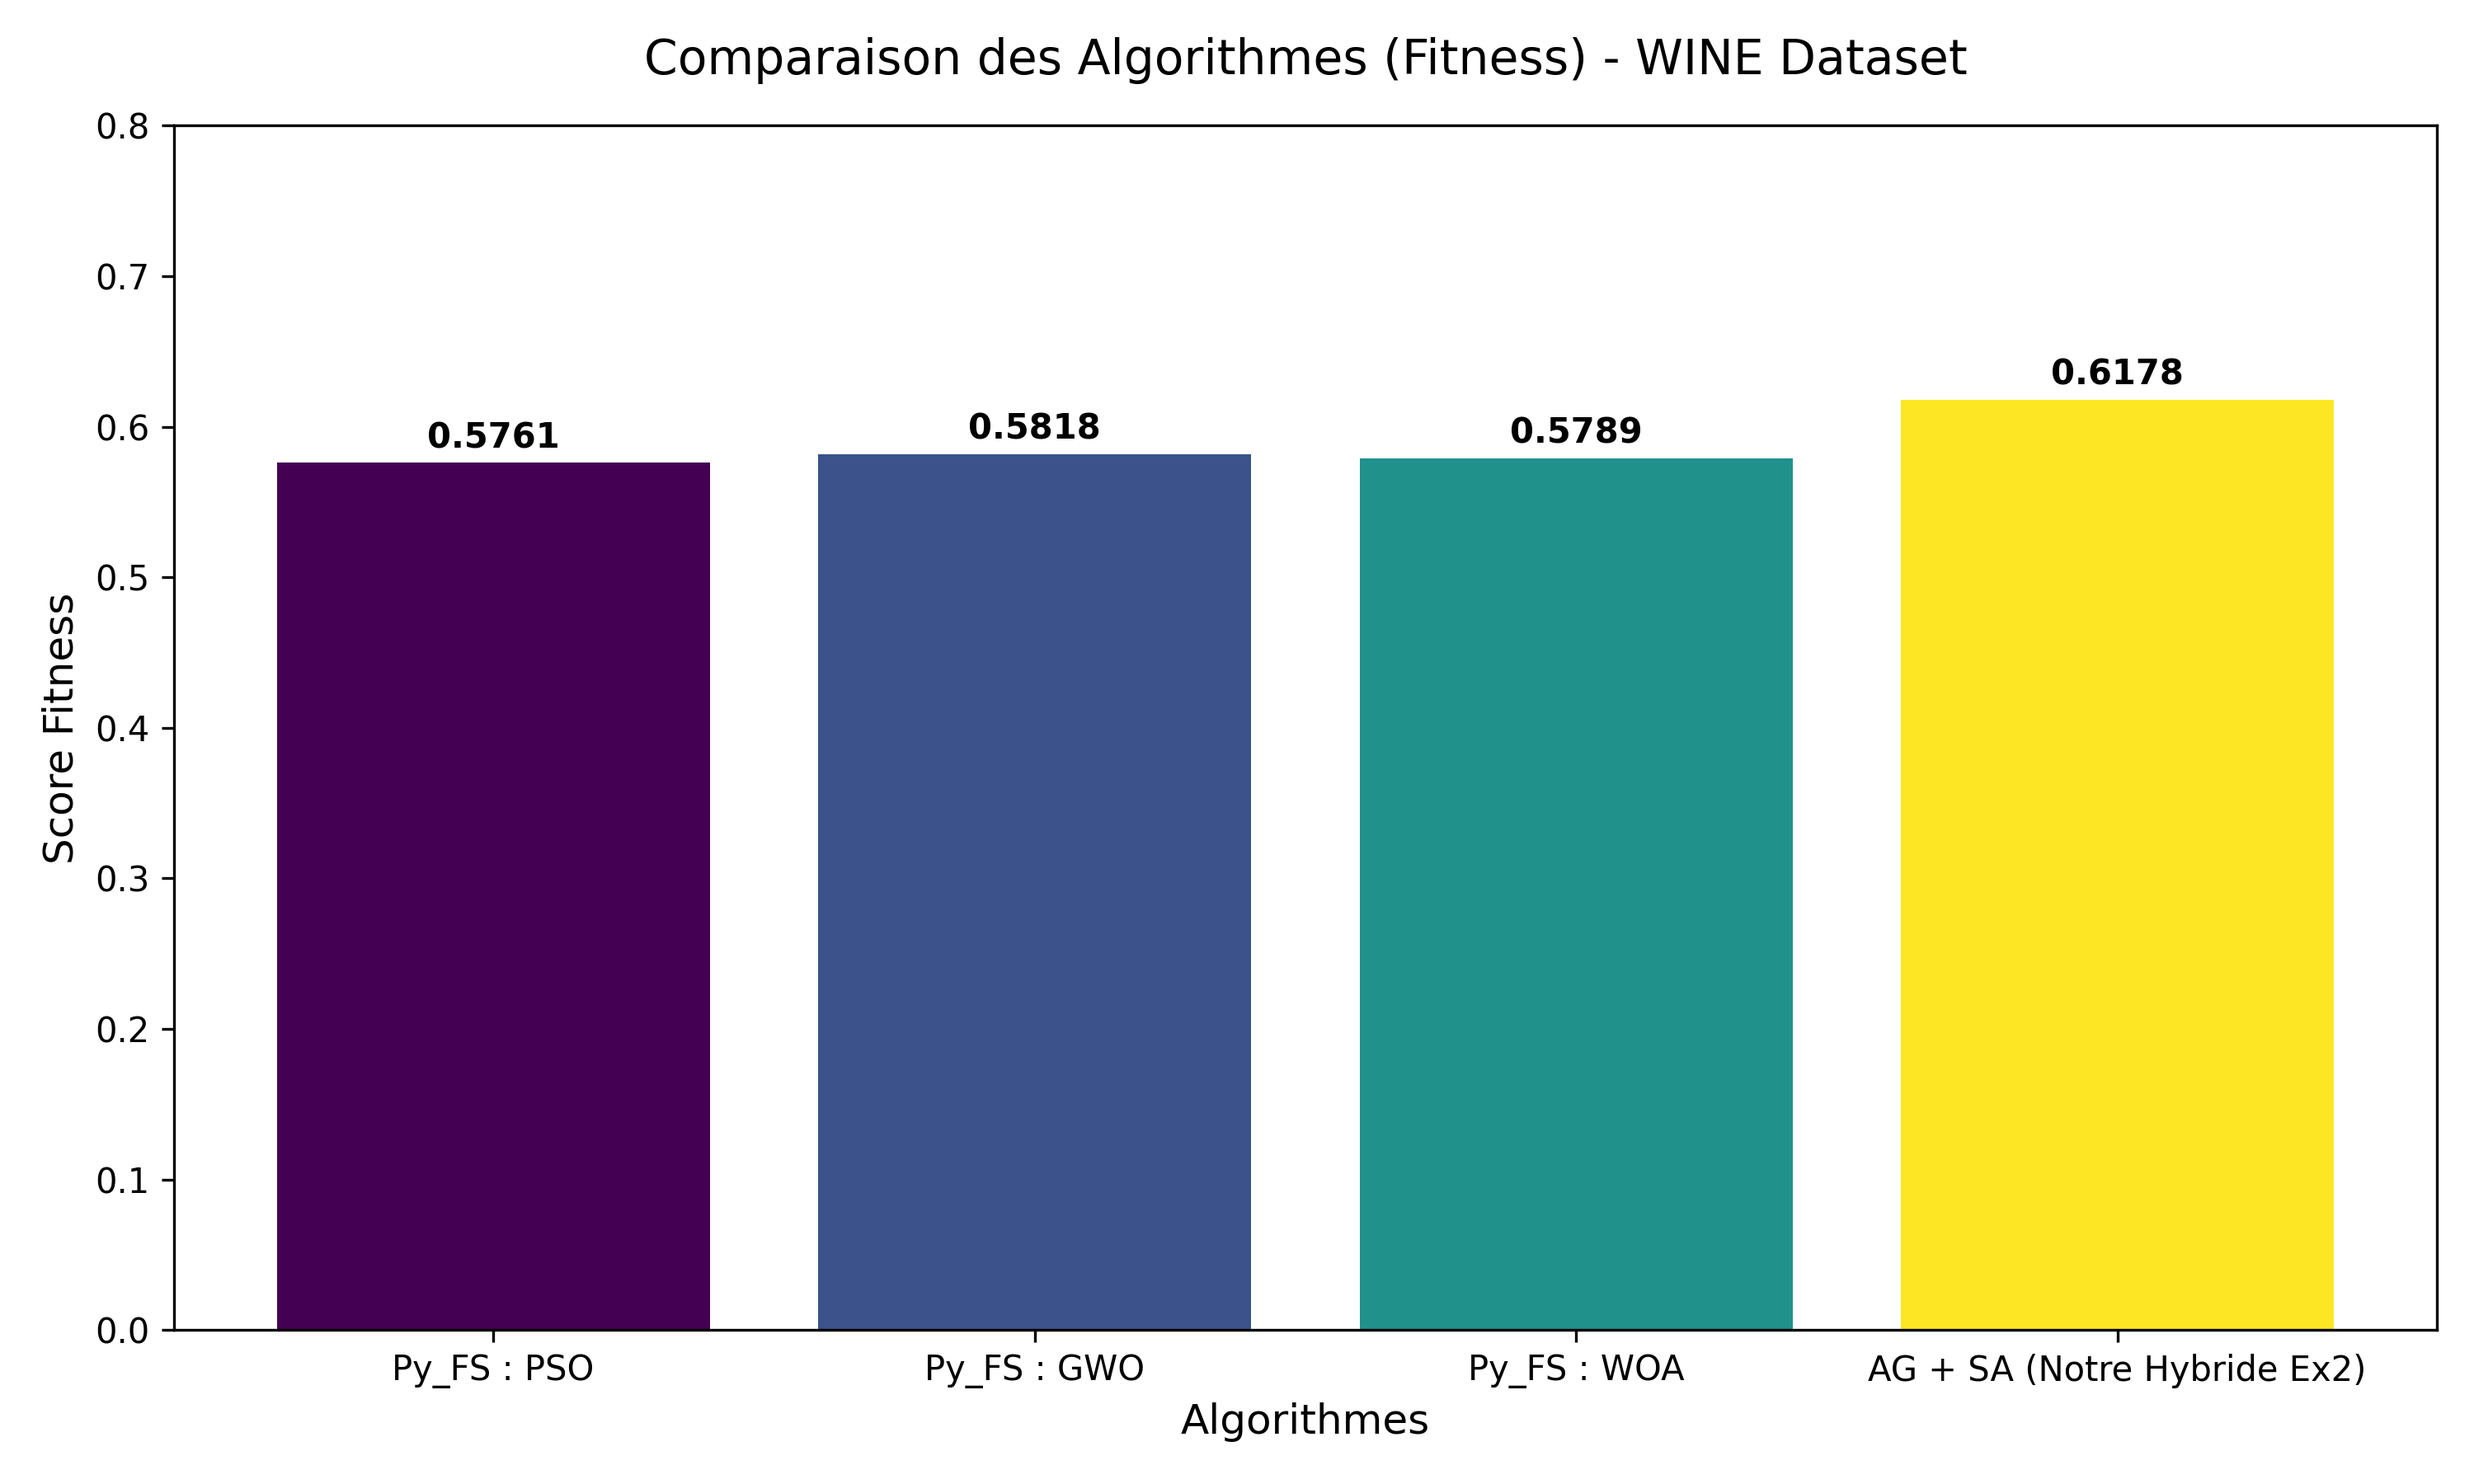
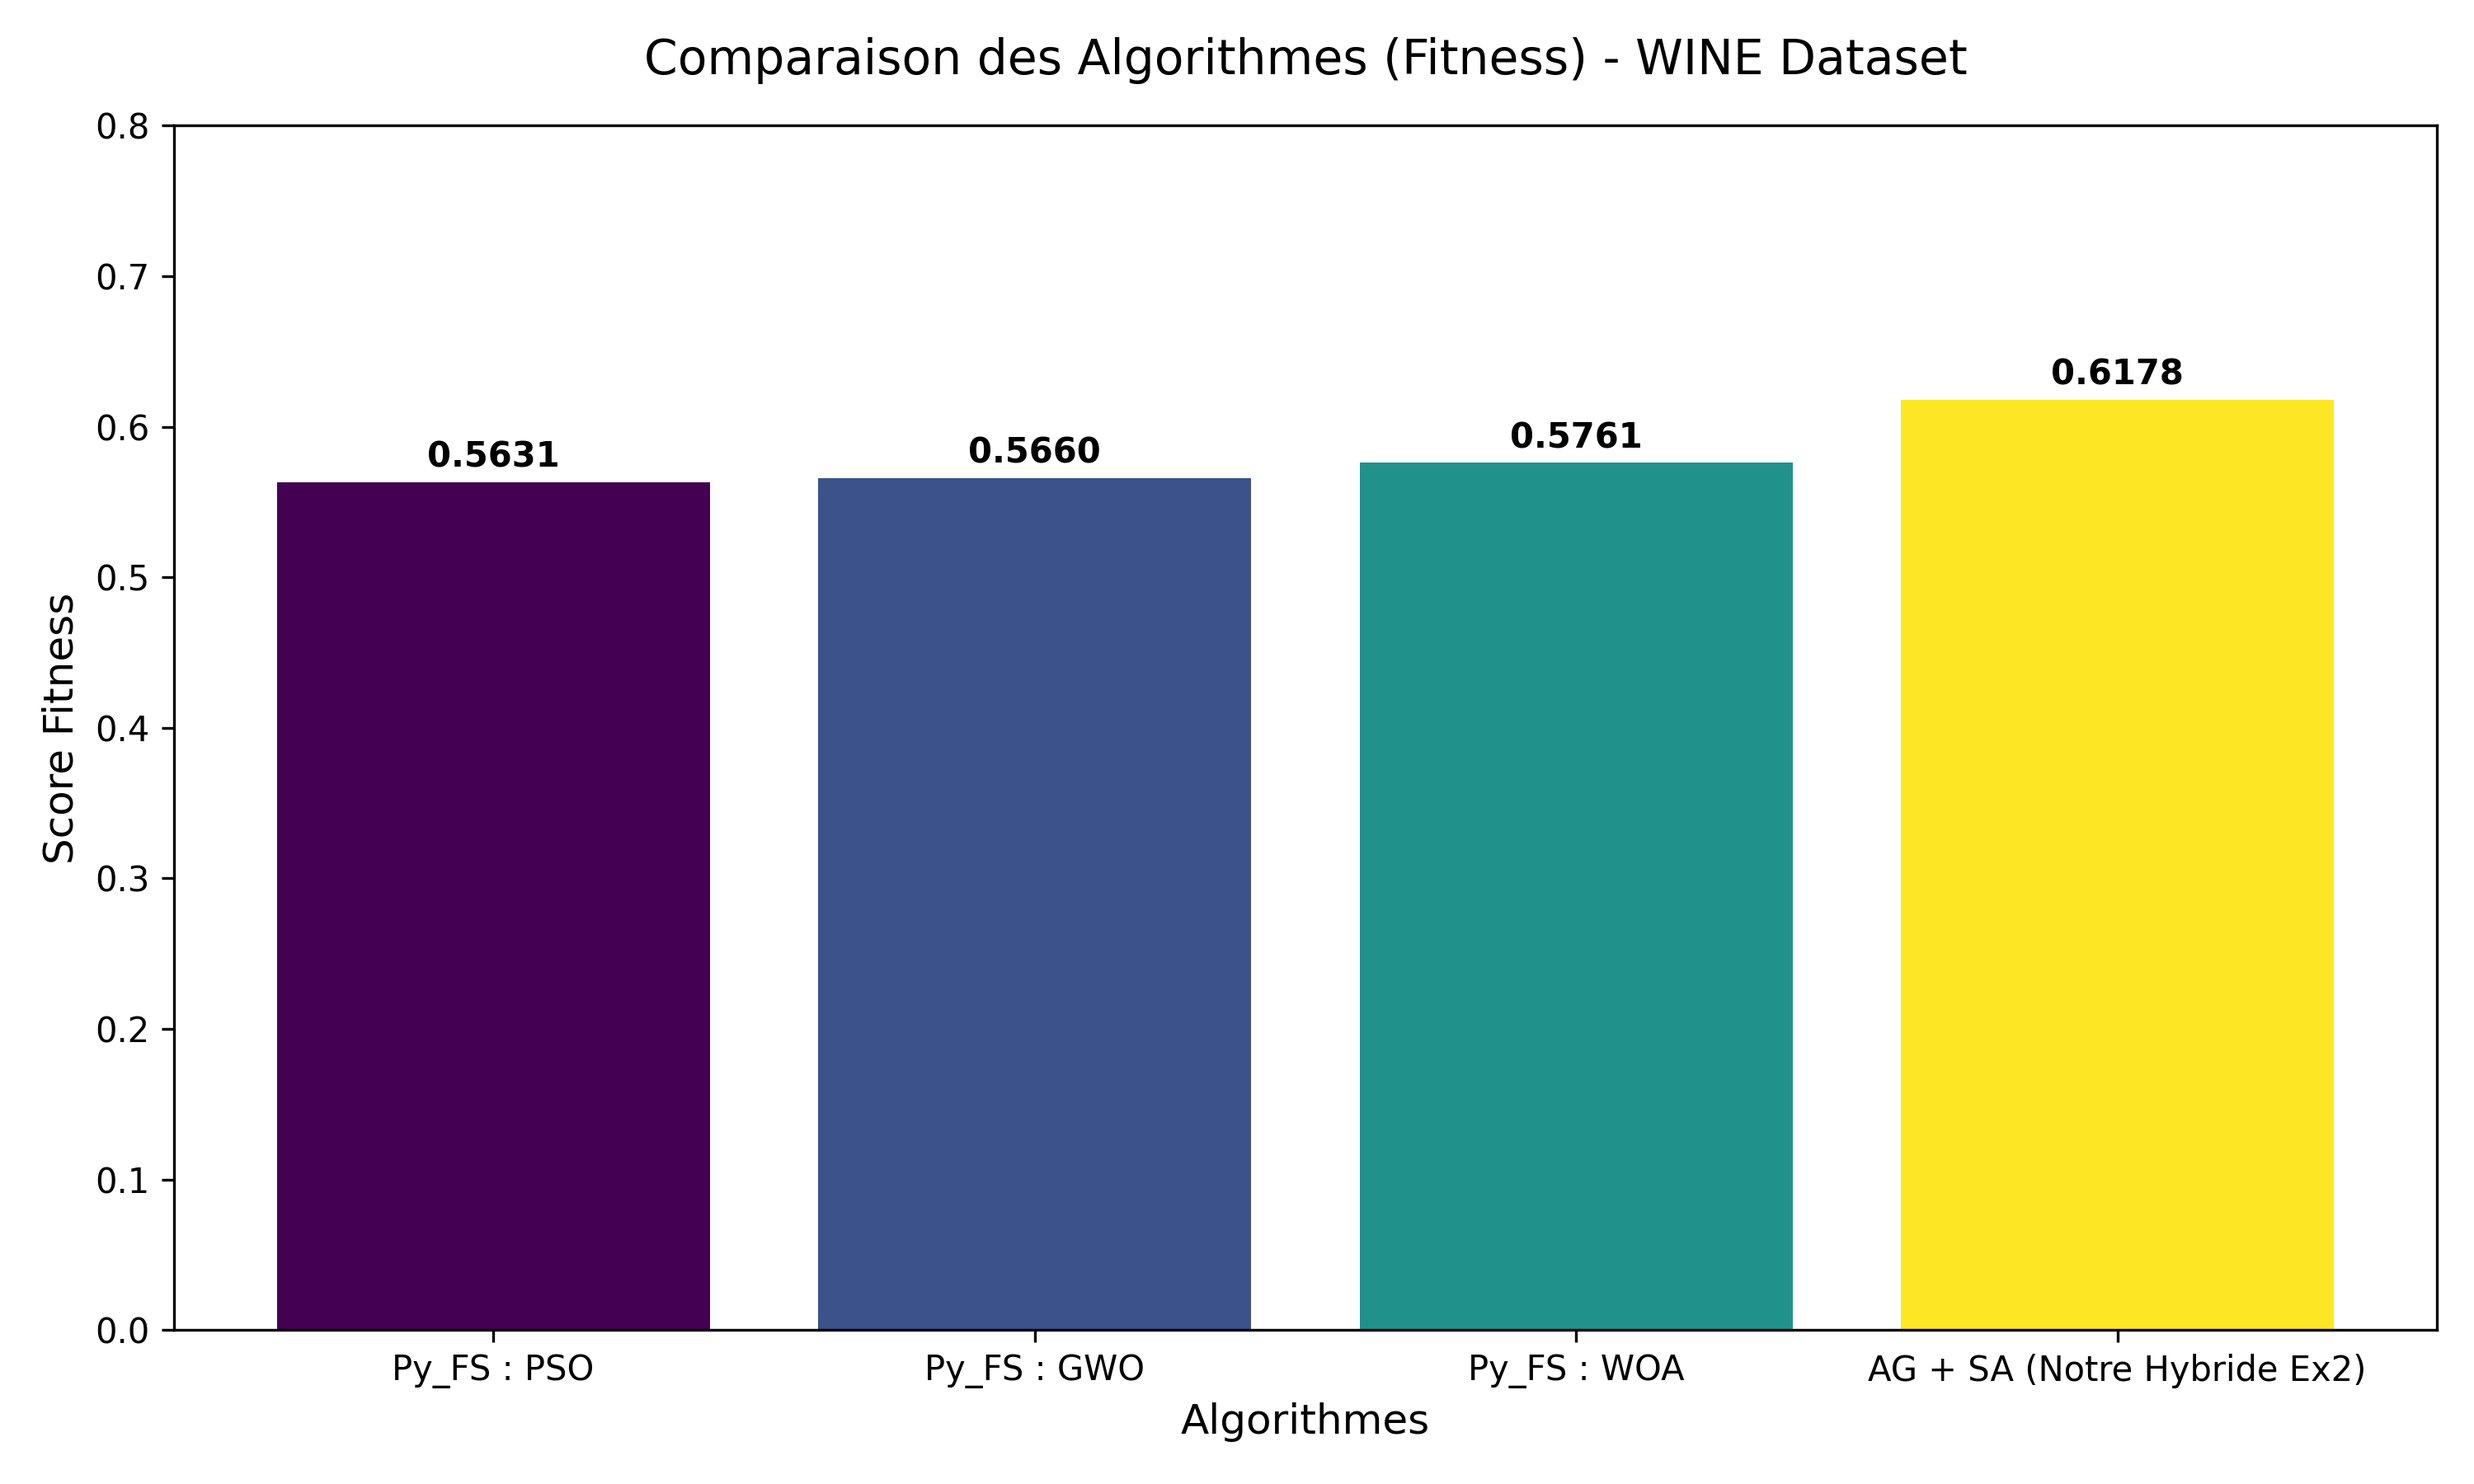
feat: add comparison results for feature selection experiments 2 and 3

Changed region(s): [[0.093, 0.28, 0.527, 0.3422], [0.589, 0.28, 0.682, 0.3111]]

diff --git a/src/9_pyfs_experiment.py b/src/9_pyfs_experiment.py
@@ -41,6 +41,10 @@ def safe_split(*args, **kwargs):
     kwargs['test_size'] = 0.3
     return original_split(*args, **kwargs)
 sklearn.model_selection.train_test_split = safe_split
+
+import matplotlib.pyplot as plt
+# Empêcher Py_FS d'ouvrir des fenêtres (plt.show) qui bloquent l'exécution (qui "dorment")
+plt.show = lambda *args, **kwargs: None
 # ------------------------
 
 # Import de la librairie Py_FS
@@ -146,6 +150,25 @@ def run_pyfs_experiments():
     plt.savefig(fig_path, dpi=300)
     plt.close()
     print(f"✅ Graphique comparatif sauvegardé dans: {fig_path}")
+
+    # ==========================================
+    # Graphique de convergence (Courbes)
+    # ==========================================
+    plt.figure(figsize=(10, 6))
+    plt.plot(sol_pso.convergence_curve['fitness'], label='PSO', color='#3b528b', linewidth=2)
+    plt.plot(sol_gwo.convergence_curve['fitness'], label='GWO', color='#21918c', linewidth=2)
+    plt.plot(sol_woa.convergence_curve['fitness'], label='WOA', color='#fde725', linewidth=2)
+    
+    plt.title('Courbes de Convergence de Py_FS', fontsize=14, pad=15)
+    plt.xlabel('Itérations', fontsize=12)
+    plt.ylabel('Fitness Moyen', fontsize=12)
+    plt.legend()
+    plt.grid(True, linestyle='--', alpha=0.7)
+    
+    conv_fig_path = '../results/comparaison_ex3_convergence.png'
+    plt.savefig(conv_fig_path, dpi=300)
+    plt.close()
+    print(f"✅ Courbes de convergence sauvegardées dans: {conv_fig_path}")
 
 if __name__ == "__main__":
     run_pyfs_experiments()
